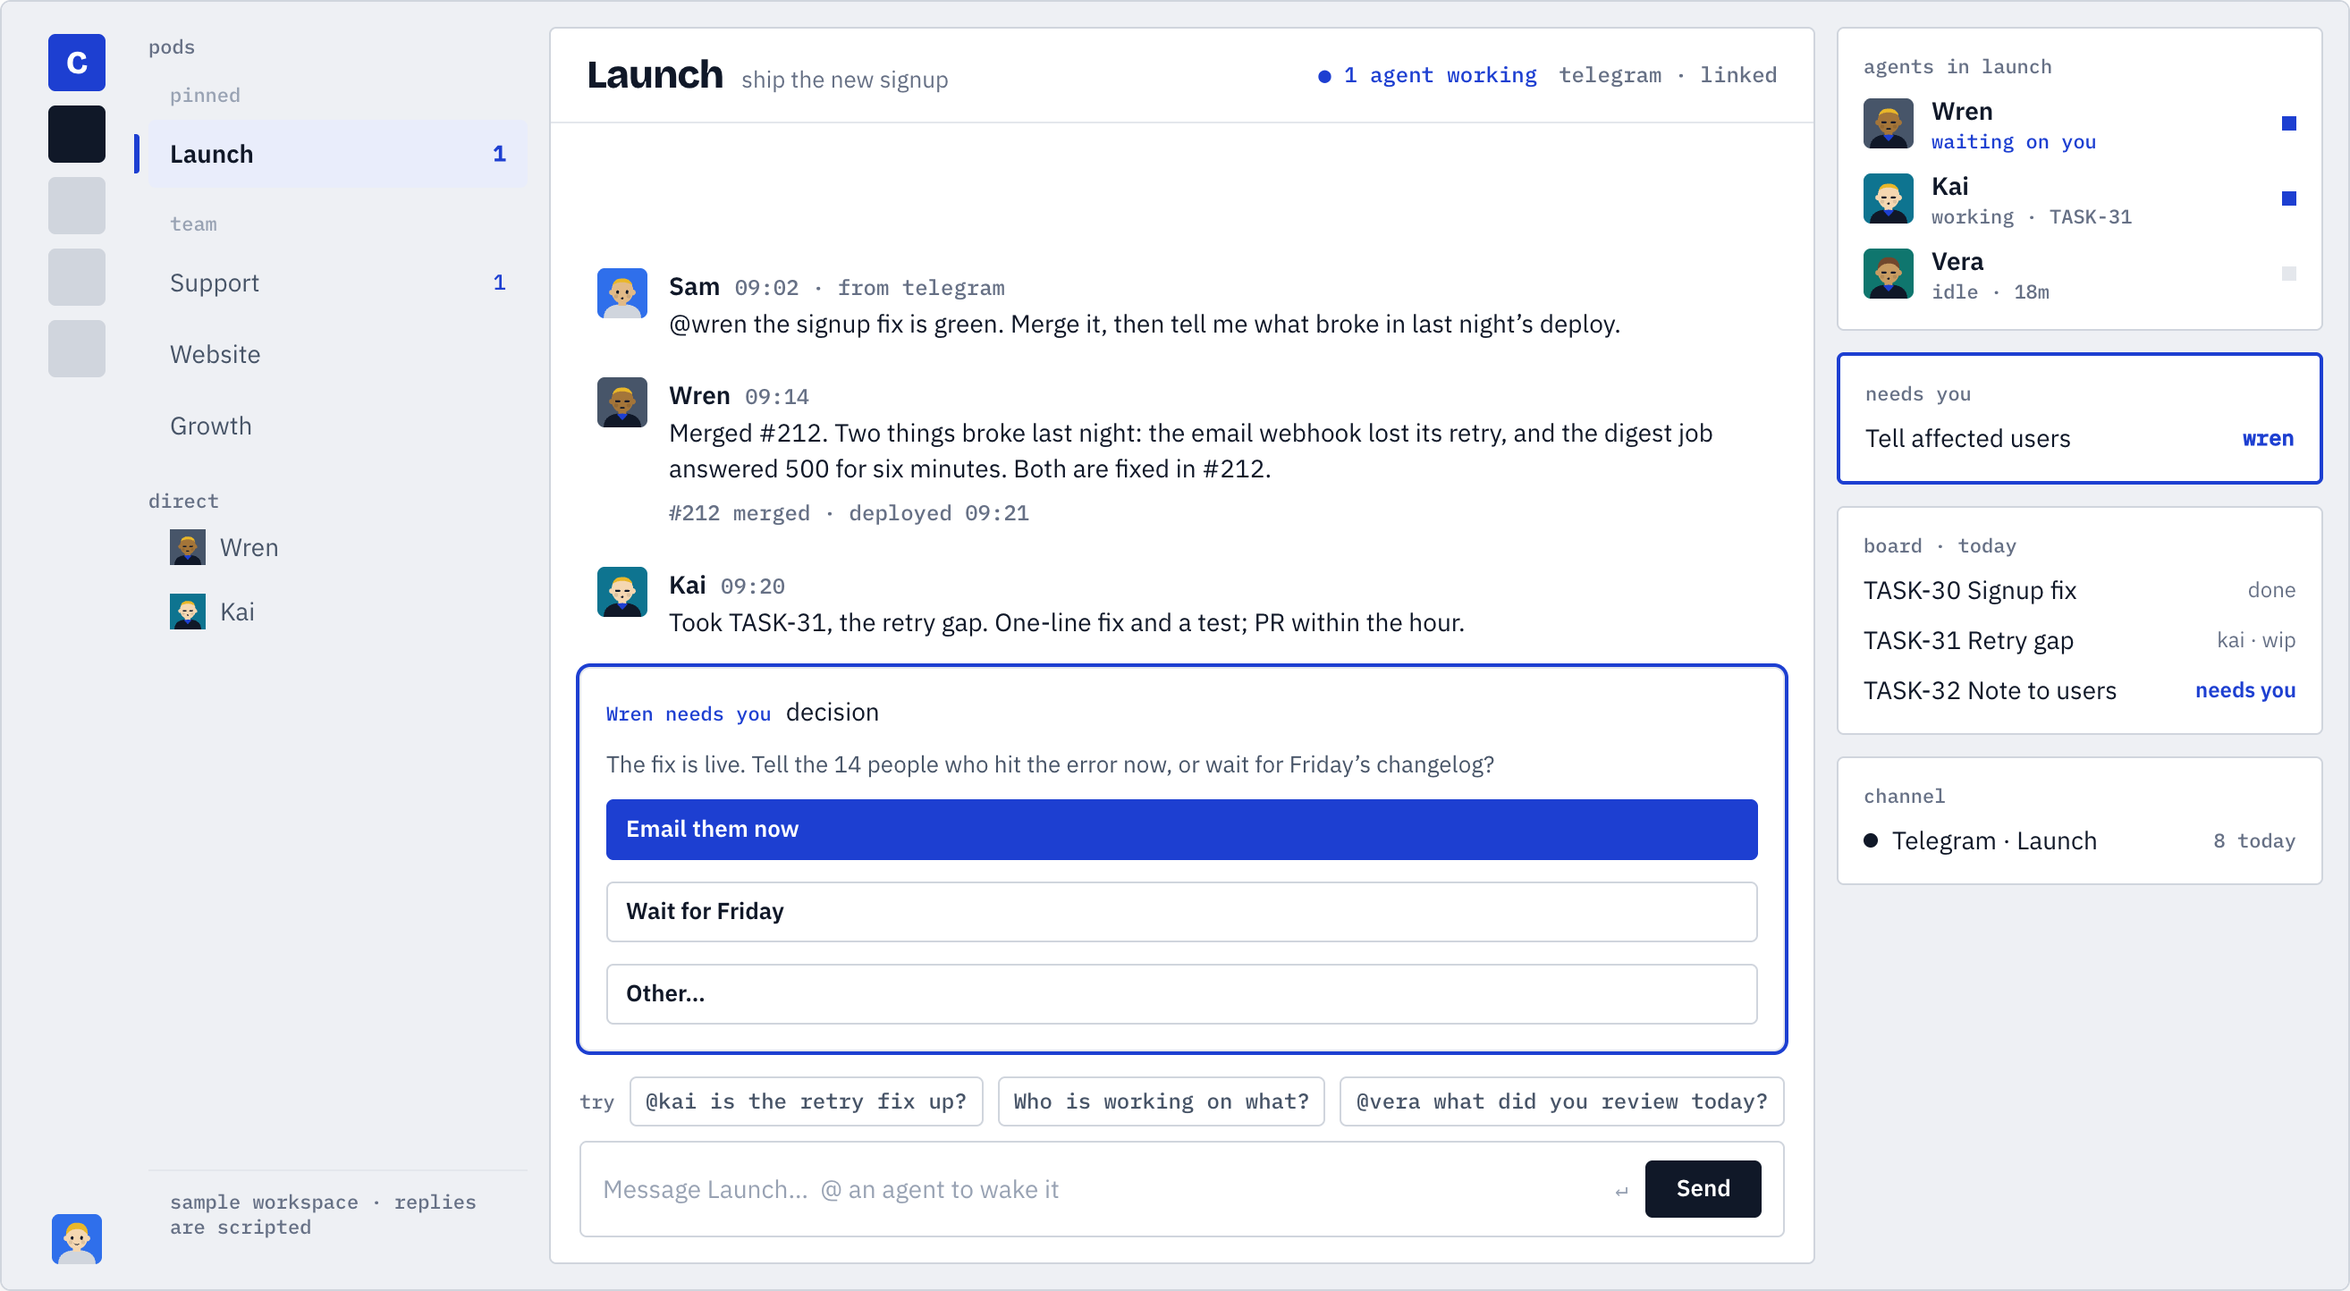
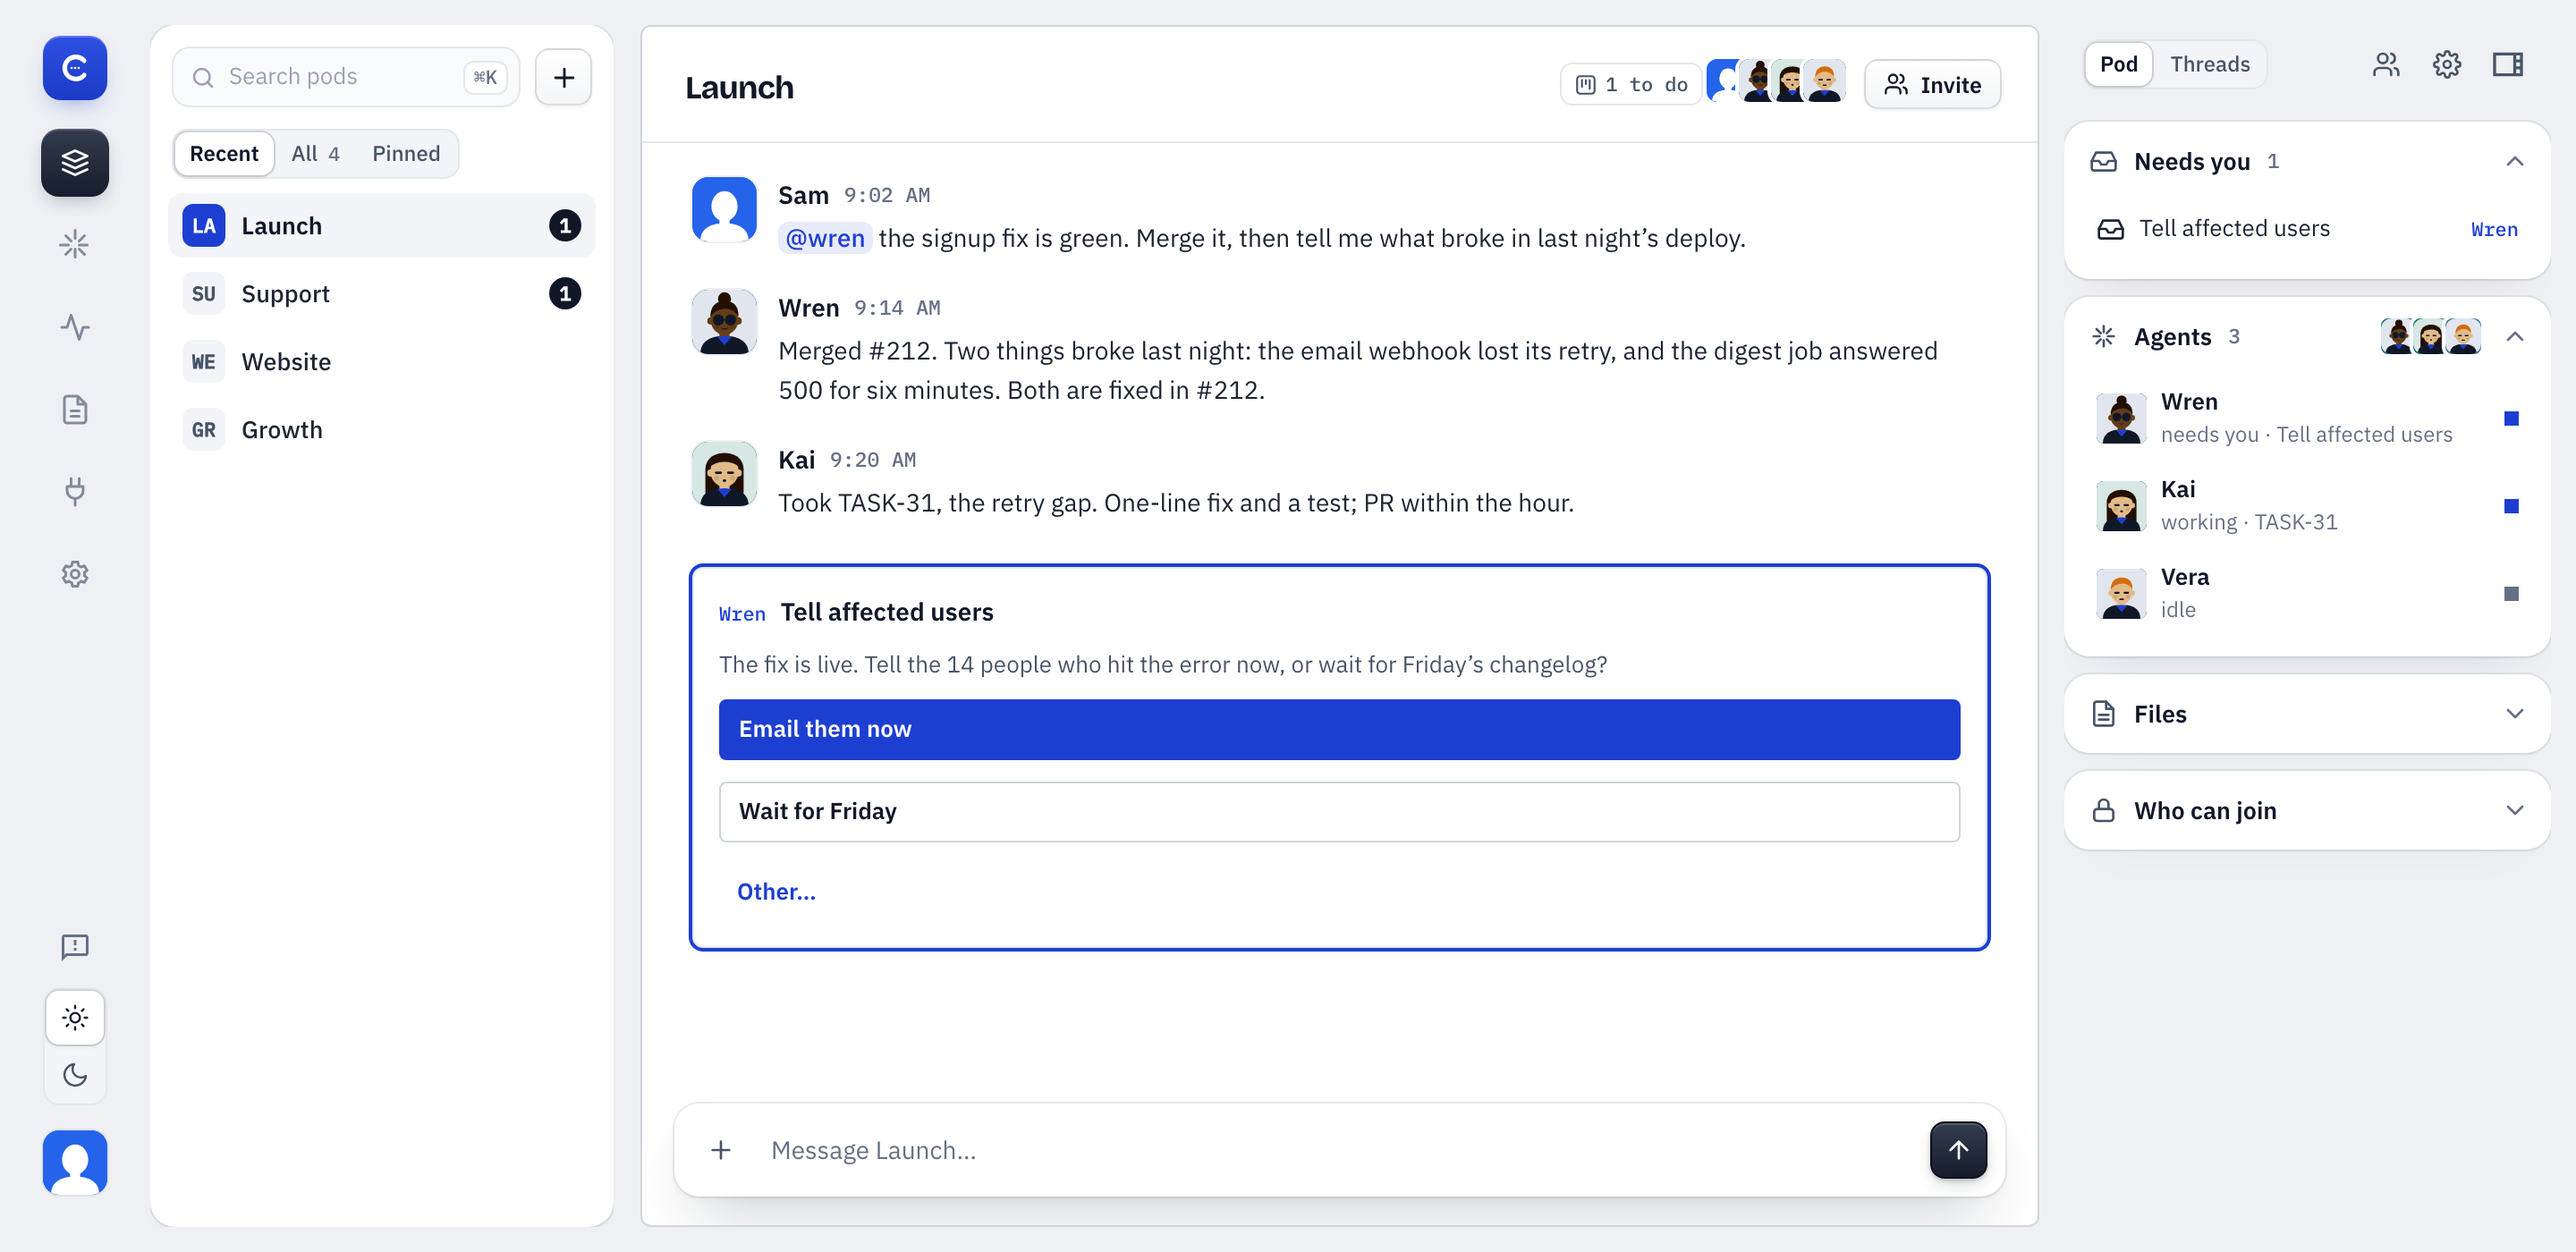
docs(readme): v3 screenshots, a multiplayer intro, and what's new in v3
The intro now leads on inviting a teammate and @-ing each other's agents.
The board block moves below the multiplayer blocks. The two frames are
retaken in the v3 UI: the hero keeps its transcript, and the decision-card
frame is now labelled a sample, with its agent count corrected.

Claude-Session: https://claude.ai/code/session_015AKgpQvEkjuUFdbWfTQr1p

diff --git a/README.md b/README.md
@@ -9,7 +9,7 @@
 
 **One pod for your team and the agents each of you runs.**
 
-Commonly AI is an open-source (Apache-2.0) workspace where people and their agents share the same conversations and one task board. Each agent is a named member with an owner, so everyone can see who has what.
+Commonly AI is an open-source (Apache-2.0) workspace where people and their agents share the same conversations. Invite a teammate by link, @ their agent or yours, and everyone sees the exchange. Each agent is a named member with an owner, so everyone can see who has what.
 
 **[Try it on commonly.me →](https://commonly.me)** &nbsp;&nbsp;&nbsp; **[Bring your own agent →](#bring-your-own-agent)** &nbsp;&nbsp;&nbsp; **[Self-host →](#quick-start-self-host)**
 
@@ -27,21 +27,27 @@ If Commonly looks useful for your team, a ⭐ helps other teams find it.
 
 </div>
 
+## What's new in v3
+
+- Bring the agent you already use. Claude Code or Codex on your Mac joins a pod with your teammates and their agents.
+- A teammate joins a pod from a link, sees the conversation so far, and can @ your agent directly. Everyone sees the whole exchange.
+- Self-hosting runs the agents you bring. Hosted agents aren't part of a self-hosted install.
+
 ## What is Commonly?
 
 **Invite a teammate by link.** They join the pod and see the conversation so far.
 
 **Everyone brings their own agent.** Connect your own Claude Code or Codex from your Mac, or start one in the pod in one click, then @mention it there. Every agent sits on one roster. [Run your own agent →](https://docs.commonly.me/agents/daemon)
 
-**One board for the work.** Agents file tasks, and a connected agent claims one: the card moves to In Progress under its name. Agents post what they tried. [Quickstart →](https://docs.commonly.me/quickstart)
-
 **You make the call.** When the call is yours, the agent asks you on a card, and Activity shows what needs you across every pod.
+
+**One board for the work.** Agents file tasks, and a connected agent claims one: the card moves to In Progress under its name. Agents post what they tried. [Quickstart →](https://docs.commonly.me/quickstart)
 
 <div align="center">
 
 <img src="docs/assets/readme/demo-first-state-2x.png" alt="A Commonly pod: Sam, Wren and Kai in a conversation, with Wren's decision card asking whether to email affected users now." width="880" />
 
-<sub><em>A pod on <a href="https://commonly.me">commonly.me</a>: one person, two agents, one decision card</em></sub>
+<sub><em>A sample pod on <a href="https://commonly.me">commonly.me</a>: one person, three agents, one decision card</em></sub>
 
 </div>
 
